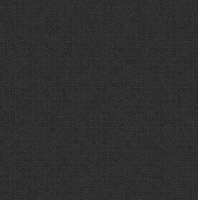
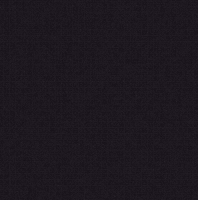
Changed the style

Changed region(s): [[0.0, 0.0, 1.0, 1.0], [0.7576, 0.96, 0.7879, 1.0]]

diff --git a/site/dev/css/jquery-mobile-theme/themes/serentripity-theme.css b/site/dev/css/jquery-mobile-theme/themes/serentripity-theme.css
@@ -20,12 +20,7 @@
 	color: #b29c85 /*{a-bar-color}*/;
 	font-weight: bold;
 	text-shadow: 0 /*{a-bar-shadow-x}*/ 1px /*{a-bar-shadow-y}*/ 1px /*{a-bar-shadow-radius}*/ #444444 /*{a-bar-shadow-color}*/;
-	background-image: -webkit-gradient(linear, left top, left bottom, from( #404853 /*{a-bar-background-start}*/), to( #353b44 /*{a-bar-background-end}*/)); /* Saf4+, Chrome */
-	background-image: -webkit-linear-gradient( #404853 /*{a-bar-background-start}*/, #353b44 /*{a-bar-background-end}*/); /* Chrome 10+, Saf5.1+ */
-	background-image:    -moz-linear-gradient( #404853 /*{a-bar-background-start}*/, #353b44 /*{a-bar-background-end}*/); /* FF3.6 */
-	background-image:     -ms-linear-gradient( #404853 /*{a-bar-background-start}*/, #353b44 /*{a-bar-background-end}*/); /* IE10 */
-	background-image:      -o-linear-gradient( #404853 /*{a-bar-background-start}*/, #353b44 /*{a-bar-background-end}*/); /* Opera 11.10+ */
-	background-image:         linear-gradient( #404853 /*{a-bar-background-start}*/, #353b44 /*{a-bar-background-end}*/);
+	background-image: url("../../../img/medium_bkg.png");
 }
 .ui-bar-a .ui-link-inherit {
 	color: #b29c85 /*{a-bar-color}*/;
@@ -61,12 +56,7 @@
 	color: #b29c85 /*{a-body-color}*/;
 	text-shadow: 0 /*{a-body-shadow-x}*/ 1px /*{a-body-shadow-y}*/ 0 /*{a-body-shadow-radius}*/ #444444 /*{a-body-shadow-color}*/;
 	background: #1d181f /*{a-body-background-color}*/;
-	background-image: -webkit-gradient(linear, left top, left bottom, from( #1f1a22 /*{a-body-background-start}*/), to( #1a151b /*{a-body-background-end}*/)); /* Saf4+, Chrome */
-	background-image: -webkit-linear-gradient( #1f1a22 /*{a-body-background-start}*/, #1a151b /*{a-body-background-end}*/); /* Chrome 10+, Saf5.1+ */
-	background-image:    -moz-linear-gradient( #1f1a22 /*{a-body-background-start}*/, #1a151b /*{a-body-background-end}*/); /* FF3.6 */
-	background-image:     -ms-linear-gradient( #1f1a22 /*{a-body-background-start}*/, #1a151b /*{a-body-background-end}*/); /* IE10 */
-	background-image:      -o-linear-gradient( #1f1a22 /*{a-body-background-start}*/, #1a151b /*{a-body-background-end}*/); /* Opera 11.10+ */
-	background-image:         linear-gradient( #1f1a22 /*{a-body-background-start}*/, #1a151b /*{a-body-background-end}*/);
+	background-image: url("../../../img/dark_bkg.png");
 }
 .ui-overlay-a {
 	background-image: none;
@@ -106,12 +96,7 @@
 	font-weight: bold;
 	color: #b29c85 /*{a-bup-color}*/;
 	text-shadow: 0 /*{a-bup-shadow-x}*/ 1px /*{a-bup-shadow-y}*/ 0 /*{a-bup-shadow-radius}*/ #444444 /*{a-bup-shadow-color}*/;
-	background-image: -webkit-gradient(linear, left top, left bottom, from( #404853 /*{a-bup-background-start}*/), to( #353b44 /*{a-bup-background-end}*/)); /* Saf4+, Chrome */
-	background-image: -webkit-linear-gradient( #404853 /*{a-bup-background-start}*/, #353b44 /*{a-bup-background-end}*/); /* Chrome 10+, Saf5.1+ */
-	background-image:    -moz-linear-gradient( #404853 /*{a-bup-background-start}*/, #353b44 /*{a-bup-background-end}*/); /* FF3.6 */
-	background-image:     -ms-linear-gradient( #404853 /*{a-bup-background-start}*/, #353b44 /*{a-bup-background-end}*/); /* IE10 */
-	background-image:      -o-linear-gradient( #404853 /*{a-bup-background-start}*/, #353b44 /*{a-bup-background-end}*/); /* Opera 11.10+ */
-	background-image:         linear-gradient( #404853 /*{a-bup-background-start}*/, #353b44 /*{a-bup-background-end}*/);
+	background-image: url("../../../img/medium_bkg.png");
 }
 .ui-btn-up-a:visited,
 .ui-btn-up-a a.ui-link-inherit {
@@ -123,12 +108,7 @@
 	font-weight: bold;
 	color: #ff5335 /*{a-bhover-color}*/;
 	text-shadow: 0 /*{a-bhover-shadow-x}*/ 1px /*{a-bhover-shadow-y}*/ 0 /*{a-bhover-shadow-radius}*/ #444444 /*{a-bhover-shadow-color}*/;
-	background-image: -webkit-gradient(linear, left top, left bottom, from( #49525f /*{a-bhover-background-start}*/), to( #3c434e /*{a-bhover-background-end}*/)); /* Saf4+, Chrome */
-	background-image: -webkit-linear-gradient( #49525f /*{a-bhover-background-start}*/, #3c434e /*{a-bhover-background-end}*/); /* Chrome 10+, Saf5.1+ */
-	background-image:    -moz-linear-gradient( #49525f /*{a-bhover-background-start}*/, #3c434e /*{a-bhover-background-end}*/); /* FF3.6 */
-	background-image:     -ms-linear-gradient( #49525f /*{a-bhover-background-start}*/, #3c434e /*{a-bhover-background-end}*/); /* IE10 */
-	background-image:      -o-linear-gradient( #49525f /*{a-bhover-background-start}*/, #3c434e /*{a-bhover-background-end}*/); /* Opera 11.10+ */
-	background-image:         linear-gradient( #49525f /*{a-bhover-background-start}*/, #3c434e /*{a-bhover-background-end}*/);
+	background-image: url("../../../img/medium_bkg.png");
 }
 .ui-btn-hover-a:visited,
 .ui-btn-hover-a:hover,
@@ -141,12 +121,7 @@
 	font-weight: bold;
 	color: #ff5335 /*{a-bdown-color}*/;
 	text-shadow: 0 /*{a-bdown-shadow-x}*/ 1px /*{a-bdown-shadow-y}*/ 0 /*{a-bdown-shadow-radius}*/ #444444 /*{a-bdown-shadow-color}*/;
-	background-image: -webkit-gradient(linear, left top, left bottom, from( #3c434e /*{a-bdown-background-start}*/), to( #49525f /*{a-bdown-background-end}*/)); /* Saf4+, Chrome */
-	background-image: -webkit-linear-gradient( #3c434e /*{a-bdown-background-start}*/, #49525f /*{a-bdown-background-end}*/); /* Chrome 10+, Saf5.1+ */
-	background-image:    -moz-linear-gradient( #3c434e /*{a-bdown-background-start}*/, #49525f /*{a-bdown-background-end}*/); /* FF3.6 */
-	background-image:     -ms-linear-gradient( #3c434e /*{a-bdown-background-start}*/, #49525f /*{a-bdown-background-end}*/); /* IE10 */
-	background-image:      -o-linear-gradient( #3c434e /*{a-bdown-background-start}*/, #49525f /*{a-bdown-background-end}*/); /* Opera 11.10+ */
-	background-image:         linear-gradient( #3c434e /*{a-bdown-background-start}*/, #49525f /*{a-bdown-background-end}*/);
+	background-image: url("../../../img/medium_bkg.png");
 }
 .ui-btn-down-a:visited,
 .ui-btn-down-a:hover,
@@ -485,12 +460,7 @@ a.ui-link-inherit {
 	cursor: pointer;
 	text-shadow: 0 /*{global-active-shadow-x}*/ 1px /*{global-active-shadow-y}*/ 1px /*{global-active-shadow-radius}*/ #fb9988 /*{global-active-shadow-color}*/;
 	text-decoration: none;
-	background-image: -webkit-gradient(linear, left top, left bottom, from( #FF5b3a /*{global-active-background-start}*/), to( #e54a2f /*{global-active-background-end}*/)); /* Saf4+, Chrome */
-	background-image: -webkit-linear-gradient( #FF5b3a /*{global-active-background-start}*/, #e54a2f /*{global-active-background-end}*/); /* Chrome 10+, Saf5.1+ */
-	background-image:    -moz-linear-gradient( #FF5b3a /*{global-active-background-start}*/, #e54a2f /*{global-active-background-end}*/); /* FF3.6 */
-	background-image:     -ms-linear-gradient( #FF5b3a /*{global-active-background-start}*/, #e54a2f /*{global-active-background-end}*/); /* IE10 */
-	background-image:      -o-linear-gradient( #FF5b3a /*{global-active-background-start}*/, #e54a2f /*{global-active-background-end}*/); /* Opera 11.10+ */
-	background-image:         linear-gradient( #FF5b3a /*{global-active-background-start}*/, #e54a2f /*{global-active-background-end}*/);
+	background-image: url("../../../img/red_bkg.png");
 	 font-family: Helvetica Neue /*{global-font-family}*/;
 }
 .ui-btn-active:visited,

diff --git a/site/dev/css/serentripity-jquery-modifications.css b/site/dev/css/serentripity-jquery-modifications.css
@@ -3,8 +3,7 @@
 	background-image : url("../img/dark_bkg.png");
 }
 .ui-header{
-	border-width:8px 0px 8px 0px;
-	-moz-border-image:url("../img/medium_border.png") 8 8 8 8 repeat repeat;
-	-webkit-border-image:url("../img/medium_border.png") 8 8 8 8 repeat repeat;
-	border-image:url("../img/medium_border.png") 8 8 8 8 repeat repeat;
+	-moz-box-shadow: 0 0 5px #888;
+	-webkit-box-shadow: 0 0 5px#888;
+	box-shadow: 0 0 5px #888;
 }

diff --git a/site/dev/php/header.php b/site/dev/php/header.php
@@ -17,7 +17,7 @@
     <link rel="apple-touch-icon" href="img/startup_icon.jpg" />
 	<link rel="apple-touch-startup-image" href="img/logo_loading.png">
     
-	<link rel="stylesheet" href="css/jquery-mobile-theme/themes/serentripity-theme-7.css" />
+	<link rel="stylesheet" href="css/jquery-mobile-theme/themes/serentripity-theme.css" />
 	<link rel="stylesheet" href="http://code.jquery.com/mobile/1.2.0/jquery.mobile.structure-1.2.0.min.css" /> 
     <link rel="stylesheet" href="css/serentripity-jquery-modifications.css"/>
 	

diff --git a/site/dev/info_page.php b/site/dev/info_page.php
@@ -346,7 +346,8 @@ require("php/header.php");
 			console.log(location);
 			$("#pictureW").attr("src",location);
 			$("#pictureWP").attr("src",location);
-			for(var i = 0; i<data.length; i++){
+			for(var i = 1; i<data.length; i++){
+				
 				var str= '<img src="img/places/'+data[i].file+'" width = "100%"></a>';
 				console.log(str);
 				$("#pictureList").append(str);
